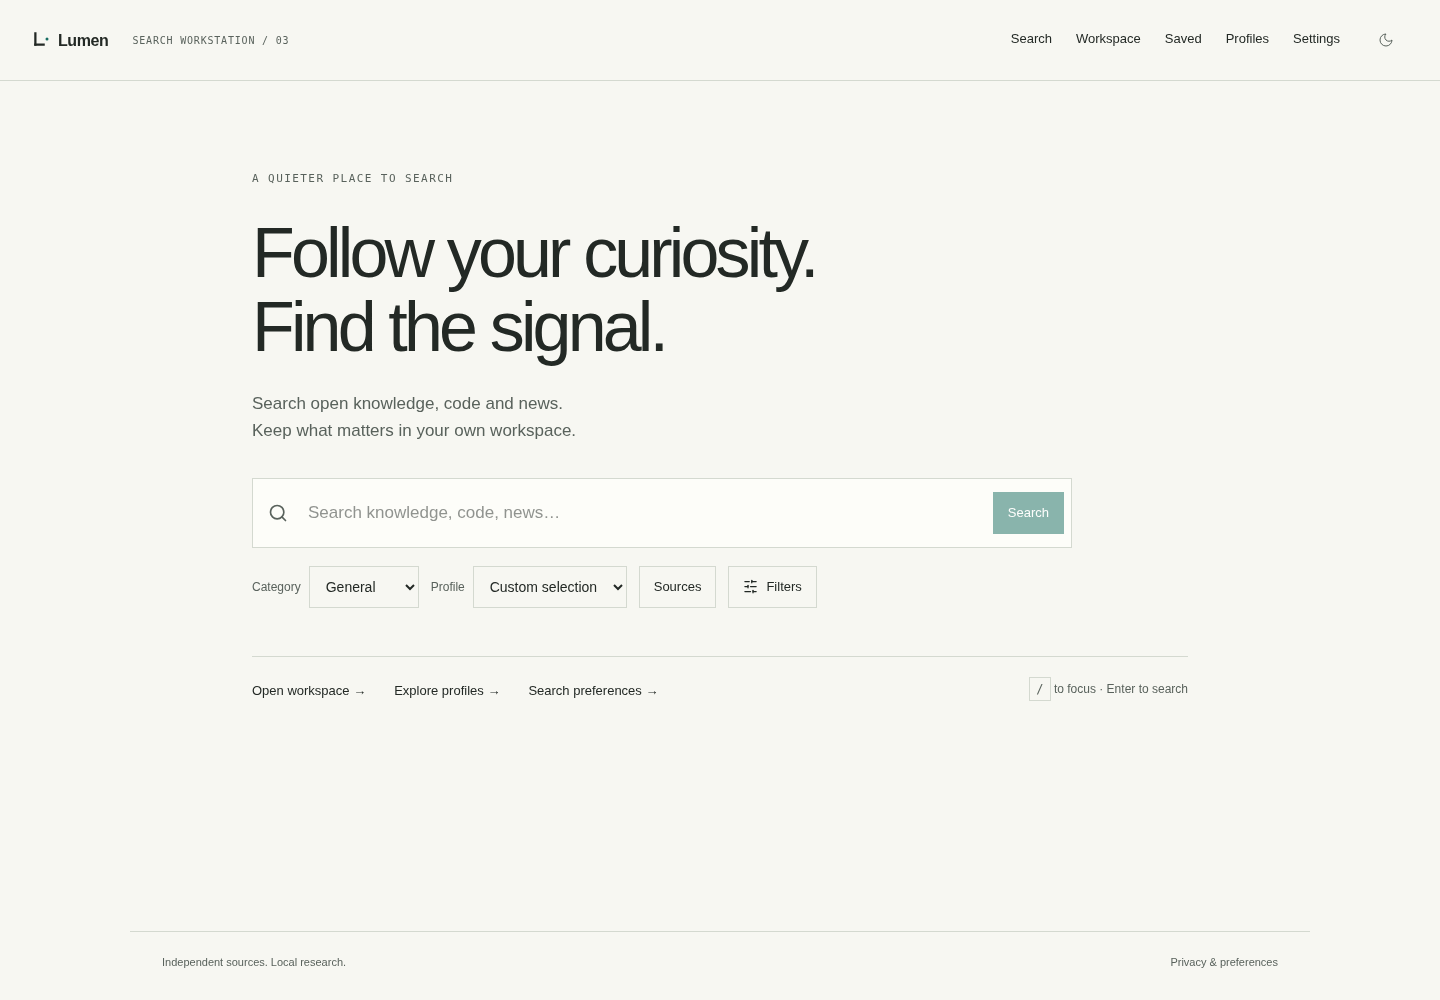
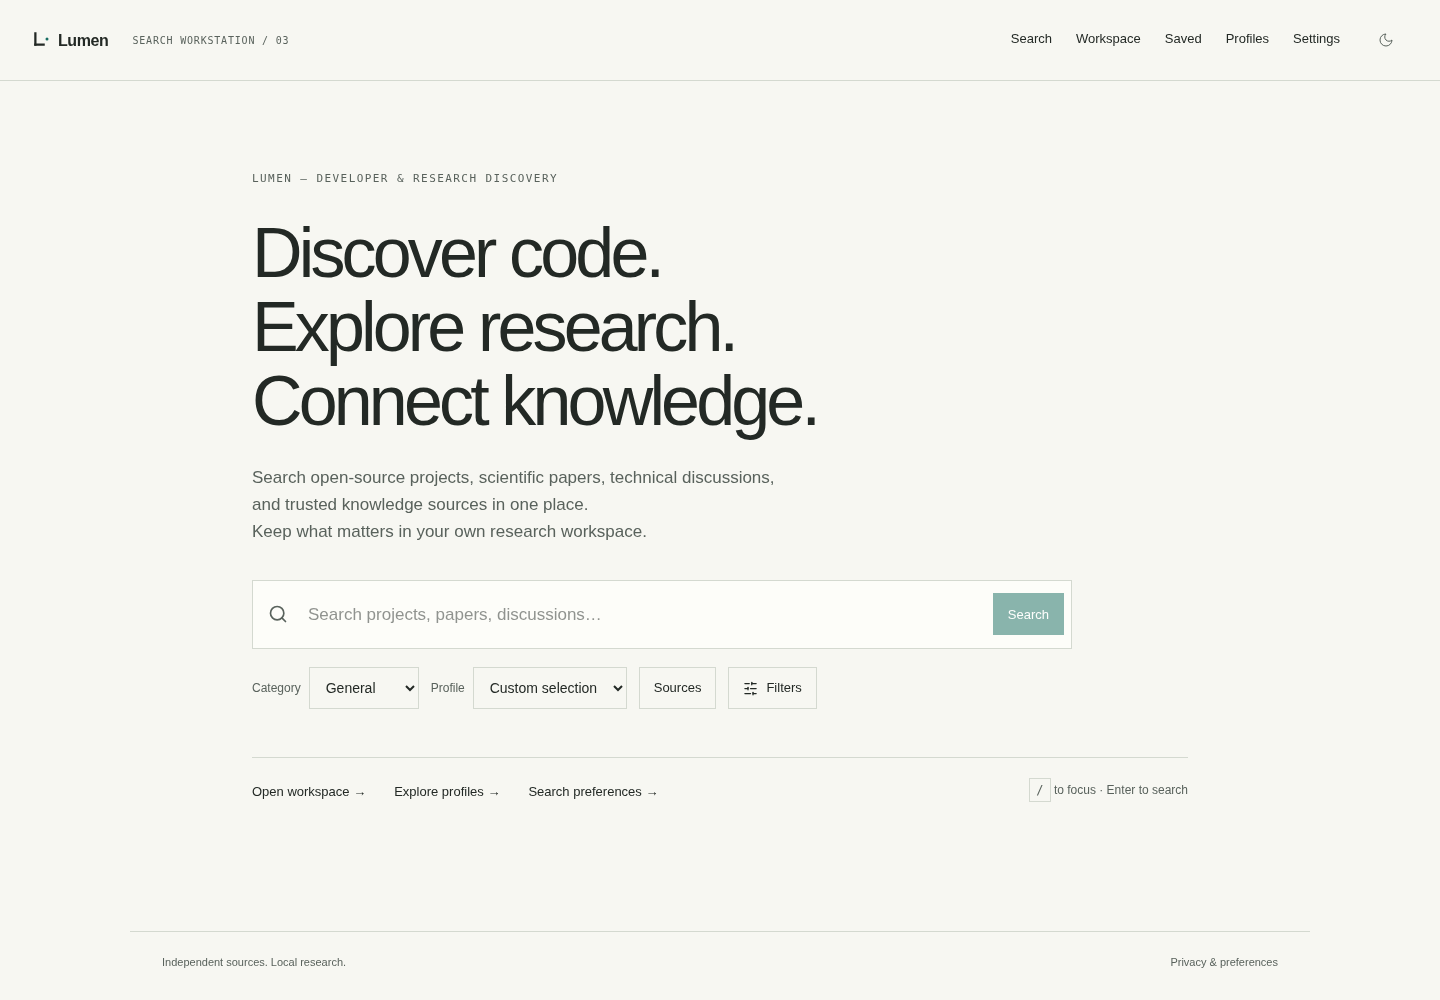
docs: align discovery scope and retire stale provider UI

diff --git a/frontend/tests/e2e/lumen.spec.ts b/frontend/tests/e2e/lumen.spec.ts
@@ -17,12 +17,22 @@ async function save(page: Page, title: string) {
 
 test("dedicated homepage navigation reaches all sections", async ({ page }) => {
   await page.goto("/");
+  await expect(page.getByRole("heading", { name: "Discover code. Explore research. Connect knowledge." })).toBeVisible();
+  await expect(page.getByText("Search open-source projects, scientific papers, technical discussions, and trusted knowledge sources in one place.")).toBeVisible();
   const nav = page.getByRole("navigation", { name: "Main navigation" });
   for (const [name, path, heading] of [["Workspace", "/workspace", "Research workspace"], ["Saved", "/saved", "Saved items"], ["Profiles", "/profiles", "Search profiles"], ["Settings", "/settings", "Settings"]]) {
     await nav.getByRole("link", { name, exact: true }).click();
     await expect(page).toHaveURL(new RegExp(`${path}$`));
     await expect(page.getByRole("heading", { name: heading, exact: true })).toBeVisible();
   }
+});
+
+test("built-in profiles explain specialized coverage without changing their sources", async ({ page }) => {
+  await page.goto("/profiles");
+  await expect(page.getByText("Mixed-source knowledge discovery across compatible sources.")).toBeVisible();
+  await expect(page.getByText("Open-source repositories and developer discussions.")).toBeVisible();
+  await expect(page.getByText("Scholarly publications and related encyclopedic knowledge.")).toBeVisible();
+  await expect(page.getByText("Technology-focused Hacker News submissions; source-limited coverage.")).toBeVisible();
 });
 
 test("search reaches real FastAPI adapters and keeps diagnostics collapsed", async ({ page }) => {
@@ -198,7 +208,7 @@ test("comparison reports shared and unique results with real provider statuses",
   await expect(page.getByRole("region", { name: "right comparison results" })).toContainText("success");
 });
 
-test("retired RSS source is unavailable in production news searches", async ({ page }) => {
+test("retired provider stays unavailable in production news searches", async ({ page }) => {
   await page.goto("/search?q=linux&category=news&engines=google_news");
   await expect(page.getByRole("status").filter({ hasText: "All selected sources are unavailable" })).toBeVisible();
   await expect(page.getByTestId("search-result")).toHaveCount(0);

diff --git a/frontend/src/features/settings/settings-page.tsx b/frontend/src/features/settings/settings-page.tsx
@@ -231,15 +231,18 @@ export function SettingsPage() {
             )}
             {section === "About" && (
               <>
-                <p className="text-lg font-medium">LUMEN V3</p>
+                <p className="text-lg font-medium">
+                  LUMEN — Developer &amp; Research Discovery
+                </p>
                 <p>
-                  Independent keyless metasearch and a local-first research
-                  workspace.
+                  Discover repositories, research papers, technical discussions,
+                  knowledge and openly licensed images from six public sources.
+                  Keep profiles and research in this browser.
                 </p>
                 <p className="text-muted-foreground">
-                  Public APIs and news feeds provide specialized coverage.
-                  Experimental HTML sources may be disabled or blocked; source
-                  failures are reported openly.
+                  Coverage depends on selected sources and their availability;
+                  this is not an index of the entire web. Queries reach upstream
+                  providers, and source failures are reported openly.
                 </p>
                 <p>
                   Returned counts, ranking explanations and comparison timings

diff --git a/frontend/src/features/profiles/profiles-page.tsx b/frontend/src/features/profiles/profiles-page.tsx
@@ -5,6 +5,12 @@ import { useState } from "react";
 import { useProfiles, useSources } from "@/features/search/search-context";
 import { profileParams, type Profile } from "@/lib/search/profiles";
 import type { SearchCategory, TimeRange } from "@/types/search";
+const builtinDescriptions: Record<string, string> = {
+  balanced: "Mixed-source knowledge discovery across compatible sources.",
+  developer: "Open-source repositories and developer discussions.",
+  research: "Scholarly publications and related encyclopedic knowledge.",
+  news: "Technology-focused Hacker News submissions; source-limited coverage.",
+};
 export function ProfilesPage() {
   const {
     builtins,
@@ -86,6 +92,7 @@ export function ProfilesPage() {
             {builtins.map((p) => (
               <article key={p.id} className="lumen-panel p-5">
                 <h3 className="text-lg font-semibold">{p.name}</h3>
+                <p className="mt-2 text-sm">{builtinDescriptions[p.id]}</p>
                 <p className="mt-2 text-sm text-muted-foreground">
                   {p.category} · {p.ranking} ·{" "}
                   {p.engines

diff --git a/frontend/src/features/search/search-screen.tsx b/frontend/src/features/search/search-screen.tsx
@@ -190,16 +190,19 @@ export function SearchScreen({ landing = false }: { landing?: boolean }) {
   if (landing && !q)
     return (
       <main className="landing">
-        <p className="eyebrow">A quieter place to search</p>
+        <p className="eyebrow">LUMEN — Developer &amp; Research Discovery</p>
         <h1>
-          Follow your curiosity.
+          Discover code.
           <br />
-          Find the signal.
+          Explore research.
+          <br />
+          Connect knowledge.
         </h1>
         <p className="landing-description">
-          Search open knowledge, code and news.
+          Search open-source projects, scientific papers, technical discussions,
+          and trusted knowledge sources in one place.
           <br />
-          Keep what matters in your own workspace.
+          Keep what matters in your own research workspace.
         </p>
         <div className="landing-search">
           <SearchInput

diff --git a/frontend/src/app/layout.tsx b/frontend/src/app/layout.tsx
@@ -4,8 +4,9 @@ import { ApplicationShell } from "@/components/layout/application-shell";
 import { ThemeProvider } from "@/components/layout/theme-provider";
 
 export const metadata: Metadata = {
-  title: "Lumen — Search, without the noise.",
-  description: "Independent metasearch with local research workspaces.",
+  title: "LUMEN — Developer & Research Discovery",
+  description:
+    "Discover open-source repositories, scientific papers, technical discussions and knowledge sources in one place.",
   referrer: "no-referrer",
   robots: {
     // Lumen is a private tool. Don't let search engines index search

diff --git a/frontend/tests/unit/capabilities.test.ts b/frontend/tests/unit/capabilities.test.ts
@@ -24,7 +24,7 @@ describe("search filter capabilities", () => {
   it("enables date filtering for dated adapters or declared source filters", () => {
     for (const id of ["github", "crossref", "hackernews"])
       expect(supportsDateFilter([engine(id)])).toBe(true);
-    expect(supportsDateFilter([engine("google_news")])).toBe(false);
+    expect(supportsDateFilter([engine("commons")])).toBe(false);
     expect(supportsDateFilter([engine("other", ["time_range"])])).toBe(true);
     expect(supportsDateFilter([engine("wikipedia")])).toBe(false);
   });

diff --git a/frontend/src/types/search.ts b/frontend/src/types/search.ts
@@ -63,7 +63,7 @@ export interface Engine {
   filters: string[];
   rate_limit_per_minute: number;
   pagination?: boolean;
-  interface_type?: "public_api" | "rss" | "experimental_html";
+  interface_type?: "public_api";
   access_note?: string;
   timeout_seconds?: number;
   availability?: string;

diff --git a/frontend/src/components/search/search-input.tsx b/frontend/src/components/search/search-input.tsx
@@ -20,7 +20,7 @@ export function SearchInput({
   loading = false,
   id = "lumen-search",
   label = "Search query",
-  placeholder = "Search knowledge, code, news…",
+  placeholder = "Search projects, papers, discussions…",
   inputRef,
   spellCheck = false,
   name,

diff --git a/docs/validation.md b/docs/validation.md
@@ -39,8 +39,10 @@ Five real user-query samples used the actual aggregation service with no fixture
 | Machine learning research papers | Science | 5 | 1661.7 ms | 3/3 succeeded, including arXiv |
 | Latest cybersecurity news | News | 5 | 241.9 ms | 1/1 succeeded |
 
-Relevance remains weak for broad queries: the Linux sample's first result was a repository overview and the cybersecurity sample consisted of Hacker News submissions, not comprehensive fresh news. Specialized APIs cannot meet the requested general-web search goal. Provider access evidence and unverified permissions are detailed in [adapters](engine-adapters.md#provider-access-review--2026-10-11).
+Relevance remains weak for broad queries: the Linux sample's first result was a repository overview and the cybersecurity sample consisted of Hacker News submissions, not comprehensive fresh news. These observations describe the limits of LUMEN's specialized discovery scope. Provider access evidence and unverified permissions are detailed in [adapters](engine-adapters.md#provider-access-review--2026-10-11).
 
 PR #5 local verification: Ruff and mypy passed, **105 backend tests** passed (one Starlette test-client deprecation warning), frontend lint and TypeScript passed, **74 unit tests** passed, the production build passed and **30 full-stack Playwright tests** passed. Docker Compose configuration and both production image builds passed using the cloud trust/proxy override. Both containers became healthy. Through the running production frontend, `/api/v1/health` returned `ok`; engine metadata listed precisely the six enabled sources; a live science search returned three real results with Wikipedia, Crossref and arXiv all reporting success and an arXiv result present. These are current-instance results, not a hosted CI claim.
 
-The nine V3 production screenshots were recaptured after the small frontend review fixes and visually inspected. The updated scanner checks every visible element for gradients, all four control corners for rounding and horizontal overflow; [its evidence](screenshots/v3-visual-checks.json) recorded none. The wordmark source file is unchanged. General-web coverage and fresh complete terms verification for some existing providers remain unresolved, so PR #5 is not production-complete for the user's primary goal.
+The nine V3 production screenshots were recaptured after the small frontend review fixes and visually inspected. The updated scanner checks every visible element for gradients, all four control corners for rounding and horizontal overflow; [its evidence](screenshots/v3-visual-checks.json) recorded none. The wordmark source file is unchanged. PR #5 now positions LUMEN for developer and research discovery; general-web coverage is outside that product scope. Fresh complete terms verification for some existing providers remains unresolved.
+
+The scope-alignment update changes homepage, profile and About copy without changing search behavior or stored profile formats. The retired-provider cleanup removes the remaining unsupported frontend interface types and an unused settings panel containing stale Google News RSS copy; historical records and tests that verify retired sources stay unavailable remain. Backend Ruff, mypy and 105 pytest tests passed; frontend lint, TypeScript, 74 unit tests and the production build passed; 31 full-stack Playwright tests passed. Compose configuration and both image builds passed, and both containers became healthy. The production same-origin health endpoint returned `ok`, and engine metadata listed all six sources enabled. Updated light and dark home, profile and Settings About screenshots were checked for overflow, rounded controls and gradients; the remaining screens were unchanged.

diff --git a/README.md b/README.md
@@ -1,8 +1,8 @@
-# LUMEN V3
+# LUMEN — Developer & Research Discovery
 
-LUMEN is a self-hosted, keyless metasearch application with a Next.js frontend and an independent Python/FastAPI backend. It searches selected sources concurrently, normalizes and deduplicates results, and applies explainable ranking. It does not crawl or index the entire web.
+LUMEN is an open-source, self-hosted discovery platform for developers, computer science students, researchers, engineers and technical learners. It brings open-source repositories, scientific papers, technical discussions, encyclopedic knowledge and openly licensed images into one search interface. It helps people compare sources and organize findings with customizable search profiles, explainable ranking, comparison tools and browser-local research collections.
 
-Default sources are Wikipedia, Wikimedia Commons, GitHub public repositories, Crossref, Hacker News and arXiv research papers. All six start enabled without third-party API credentials. Provider availability, quotas and access conditions still apply. General-web coverage remains an unmet goal; [the provider review](docs/engine-adapters.md#provider-access-review--2026-10-11) explains why Google, Bing and DuckDuckGo are absent.
+The six default sources are GitHub, Wikipedia, Crossref, arXiv, Hacker News and Wikimedia Commons. All start enabled without third-party API credentials. LUMEN searches selected sources concurrently, normalizes and deduplicates results, then applies explainable ranking. Provider availability, quotas and access conditions still apply; [the provider review](docs/engine-adapters.md#provider-access-review--2026-10-11) explains source selection.
 
 The redesigned interface separates [Search](docs/migration-v3.md), Research workspace, Saved items, Search profiles, Settings and comparison. Collections, notes, tags, profiles and optional history remain in browser storage. The existing LUMEN logo and wordmark are preserved.
 
@@ -38,7 +38,7 @@ Python 3.12+, uv, Node 22 and Bun are used for development. Containers use non-r
 
 ## Limitations
 
-Sources provide specialized discovery rather than comprehensive web coverage. Crossref and arXiv return research metadata rather than guaranteed full text; Hacker News focuses on technology and is not comprehensive current news. Maps, videos and a dedicated file index remain unavailable. Filters and pagination vary by source, and local post-filters may reduce result counts. Rankings and comparison overlap are heuristics, not objective quality scores.
+LUMEN does not index the entire web and is not a Google, Bing or DuckDuckGo replacement. Coverage depends on selected sources. Crossref and arXiv return research metadata rather than guaranteed full text; Hacker News focuses on technology and is not comprehensive current news. Provider quotas and access policies can make results incomplete or unavailable. Maps, videos and a dedicated file index remain unavailable. Filters and pagination vary by source, and local post-filters may reduce result counts. Rankings and comparison overlap are heuristics, not objective quality scores.
 
 Caches, cooldowns and quotas are process-local; extra workers multiply upstream traffic. Browser storage belongs to its origin: export collections before changing hosts. Queries reach selected providers and optional images may contact their hosts; see the privacy guide.
 

diff --git a/docs/search-engine.md b/docs/search-engine.md
@@ -1,12 +1,14 @@
 # Search execution
 
+Search is scoped to developer, research and knowledge sources. General is mixed-source knowledge discovery; Developer emphasizes GitHub and Hacker News; Research uses Crossref and Wikipedia by default, with arXiv available in the science category; News uses Hacker News for technology-focused submissions only. Built-in profile selection and source configurations remain unchanged, and user-created profiles keep their existing settings.
+
 A query contains category, selected engines, language, time range, safe-search mode, page, limit, domain include/exclude filters, optional file type, ranking mode and preferred domains. Unsupported categories are unavailable instead of silently returning unrelated data.
 
 The registry supplies eligible, configured engines. Adapter requests execute concurrently, constrained by a semaphore and source throttling. Deadlines prevent one slow provider from holding the whole response indefinitely. Successful sources remain useful when others fail; statuses distinguish failures from empty responses. Pending tasks are cleaned up when the deadline expires.
 
 Canonical URLs remove fragments and known tracking parameters while retaining resource-identifying query parameters. Duplicate results merge attribution and useful metadata. Ranking uses normalized source positions rather than combining incomparable provider scores.
 
-Domain, file type and publication-time checks can be local post-filters. They operate on retrieved candidates and may yield fewer results than requested; they are not equivalent to provider-side full-index filtering. Engine metadata identifies supported upstream filters. Pagination is bounded and provider-specific: returned counts describe this response, not an exact total across the web.
+Domain, file type and publication-time checks can be local post-filters. They operate on retrieved candidates and may yield fewer results than requested; they are not equivalent to provider-side full-index filtering. Engine metadata identifies supported upstream filters. Pagination is bounded and provider-specific: returned counts describe this response, not a total across all selected sources.
 
 The default cache holds at most 128 entries for 120 seconds. The default overall query deadline is nine seconds with an eight-second default per-engine timeout and outbound concurrency of twelve. The bounded TTL cache keys every query/filter and engine selection. Only successful responses are reusable; errors must not become durable search results. Identical concurrent requests share a bounded in-flight operation keyed by the complete query; cancelling one waiter leaves other waiters running, while the final waiter cancels the underlying operation. It stores queries transiently in memory to form keys, without persistent history or raw query logs. Cache behavior differs across workers and instances.
 

diff --git a/docs/architecture.md b/docs/architecture.md
@@ -1,11 +1,11 @@
 # Architecture
 
-LUMEN V3 is a metasearch application, not a web crawler or a full-web index. The Next.js App Router frontend forwards same-origin API calls to a fixed, server-configured FastAPI backend. No third-party API credentials are required. The frontend signs random browser identities with a server-only shared secret; the backend verifies them for session limits and applies an aggregate proxy-peer ceiling. Users cannot select arbitrary proxy destinations.
+LUMEN is a self-hosted developer and research discovery platform, not a web crawler or a full-web index. The Next.js App Router frontend forwards same-origin API calls to a fixed, server-configured FastAPI backend. No third-party API credentials are required. The frontend signs random browser identities with a server-only shared secret; the backend verifies them for session limits and applies an aggregate proxy-peer ceiling. Users cannot select arbitrary proxy destinations.
 
 FastAPI validates requests into Pydantic models. An injected registry selects adapters; the orchestrator schedules concurrent, bounded HTTP requests with per-engine and overall deadlines. Results pass through URL normalization, deduplication, filtering and deterministic ranking before the response is returned. Safe engine status summaries make partial failures visible.
 
 The backend owns a bounded, process-local TTL cache and aggregate diagnostics. Each worker has separate caches, counters and upstream throttling state; running more workers increases aggregate provider load. One worker is the default. No database or Redis is required.
 
-The production registry contains six enabled public API providers. arXiv serializes its requests and spaces starts by at least three seconds in the single backend process supplied by Compose. Multiple backend instances require shared rate coordination to satisfy arXiv's cross-machine limit. Experimental HTML/RSS adapters are not in the registry.
+The production registry contains six enabled public API providers. arXiv serializes its requests and spaces starts by at least three seconds in the single backend process supplied by Compose. Multiple backend instances require shared rate coordination to satisfy arXiv's cross-machine limit. Retired provider adapters are absent from the registry.
 
 Dedicated `/search`, `/workspace`, `/saved`, `/profiles`, `/settings` and `/compare` routes share responsive navigation. Zustand stores local preferences and profiles; IndexedDB stores research collections and optional history. No account or server-side research storage is required. See [privacy](privacy.md), [API](api.md) and [deployment](deployment.md).
